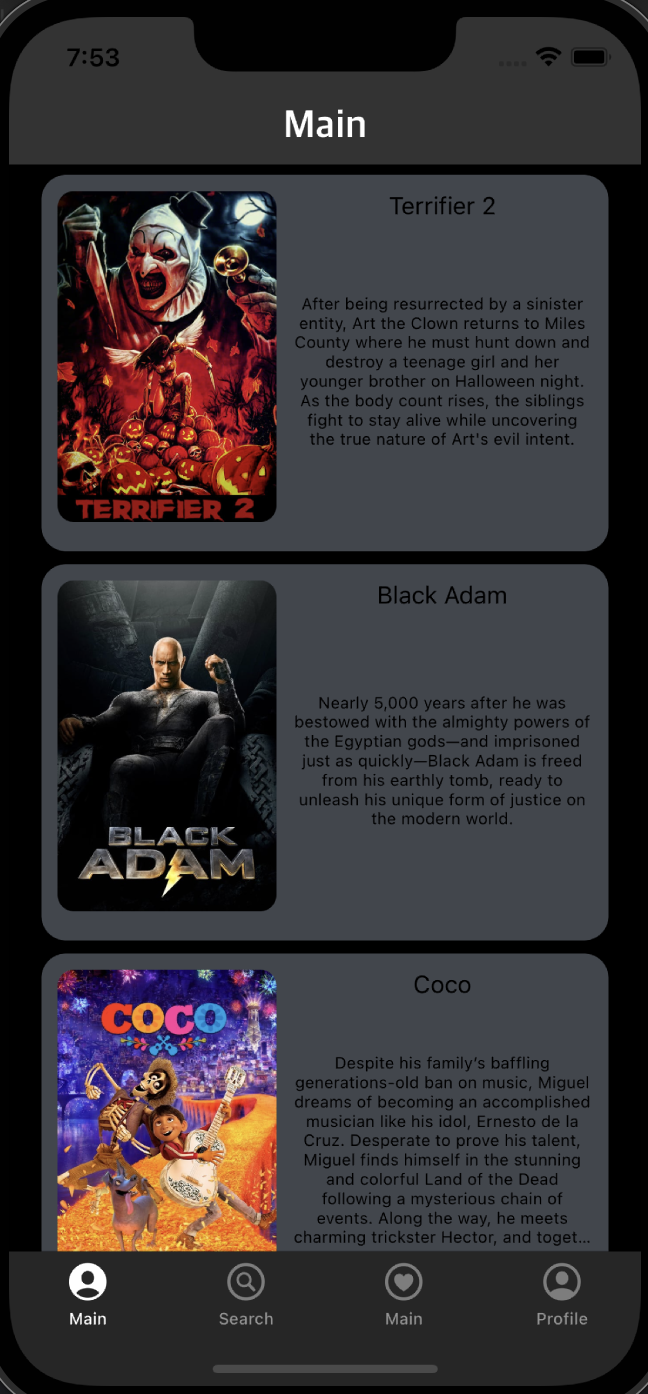
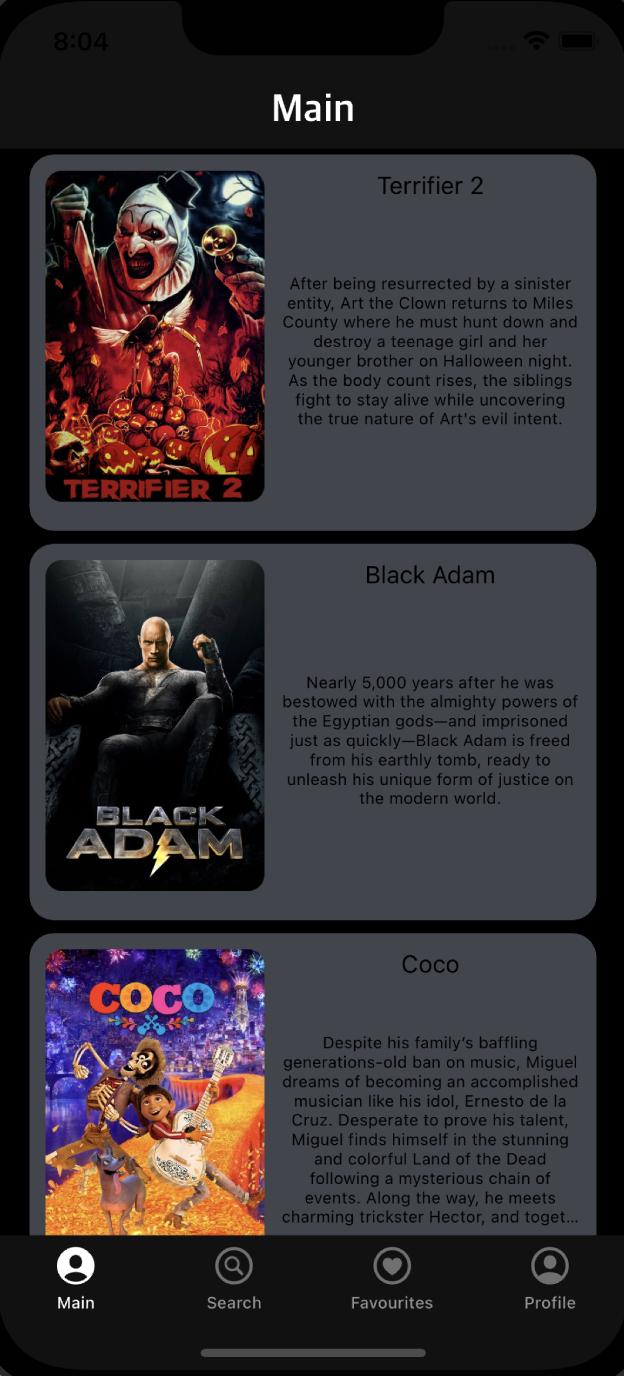
tabbar color edited

diff --git a/The-Movie-DB/The-Movie-DB/App/AppDelegate.swift b/The-Movie-DB/The-Movie-DB/App/AppDelegate.swift
@@ -20,7 +20,7 @@ class AppDelegate: UIResponder, UIApplicationDelegate {
         let navigationBarAppearace = UINavigationBar.appearance()
 
         navigationBarAppearace.tintColor = .white
-        navigationBarAppearace.barTintColor = #colorLiteral(red: 0.149019599, green: 0.149019599, blue: 0.149019599, alpha: 1)
+        navigationBarAppearace.barTintColor = #colorLiteral(red: 0, green: 0, blue: 0, alpha: 1)
         navigationBarAppearace.titleTextAttributes = [.foregroundColor : UIColor.white, .font: UIFont(name: "AppleSDGothicNeo-Bold", size: 24)!]
         
         UITabBarItem.appearance().setTitleTextAttributes([.foregroundColor : UIColor.white], for: .selected)

diff --git a/The-Movie-DB/The-Movie-DB/Modules/TabBarModule/TabBarCoordinator.swift b/The-Movie-DB/The-Movie-DB/Modules/TabBarModule/TabBarCoordinator.swift
@@ -42,7 +42,7 @@ class TabCoordinator: NSObject, Coordinator {
     
     private func prepareTabBarController(withTabControllers tabControllers: [UIViewController]) {
         tabBarController.delegate = self
-        tabBarController.tabBar.barTintColor = #colorLiteral(red: 0.149019599, green: 0.149019599, blue: 0.149019599, alpha: 1)
+        tabBarController.tabBar.barTintColor = #colorLiteral(red: 0.06846003234, green: 0.06846003234, blue: 0.06846003234, alpha: 1)
         tabBarController.setViewControllers(tabControllers, animated: true)
         tabBarController.selectedIndex = TabBarPage.main.pageOrderNumber()
         tabBarController.tabBar.isTranslucent = false
